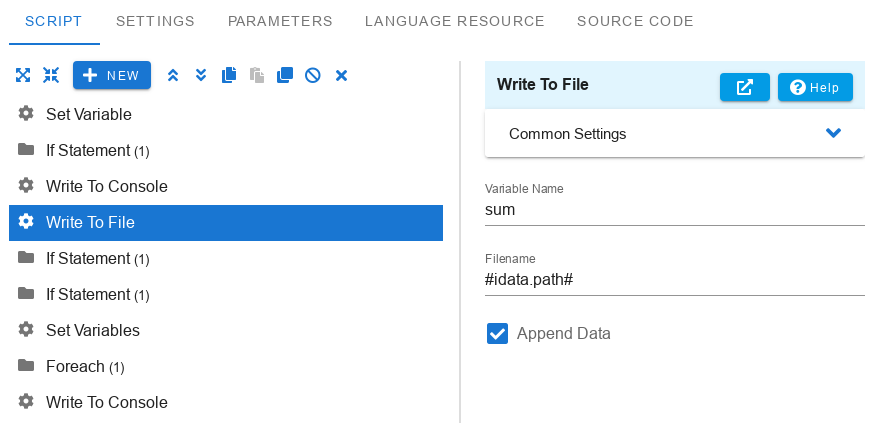
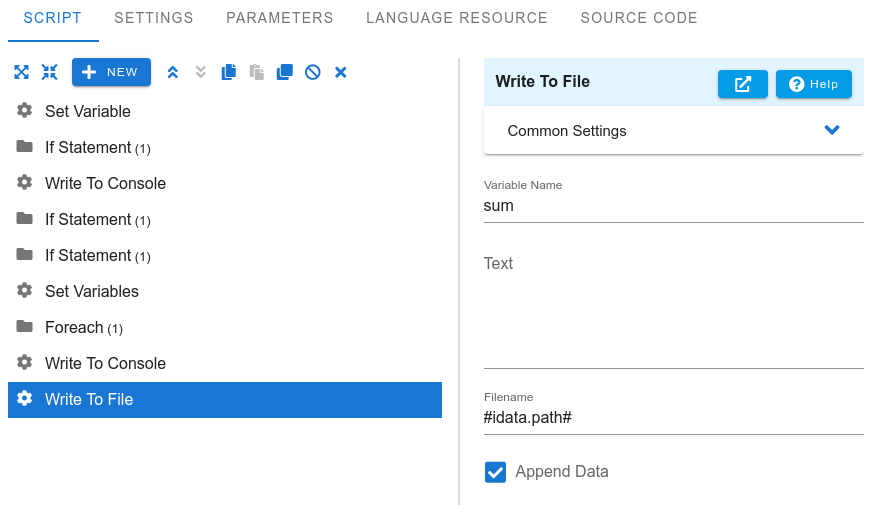
Add Text to Write To File command

diff --git a/ru/docs/config.md b/ru/docs/config.md
@@ -21,6 +21,7 @@ desc: Конфигурация программы Eonza.
 version: 1.1.0+1
 mode: default
 assetsdir: ""
+extsdir: ""
 log:
   dir: ""
   mode: file
@@ -47,6 +48,7 @@ whitelist: []
    * **develop** - режим разработчика.
    * **playground** - режим безопасной "песочницы".
 * **assetsdir** - по умолчанию, файлы для фронтенда (html, js, png) упакованы в исполняемый файл. Вы можете указать директорию к этим файлам в распакованном виде. Это позволяет использовать модифицированные версии файлов.
+* **extsdir** - директория для установки расширений. Каждое расширение устанавливается в отдельную поддиректорию.
 * **whitelist** - если вы установили Eonza на удаленном сервере (хостинге), то мы рекомендуем указать "белый список" ip-адресов в дополнении к защите по паролю. В этом параметре укажите массив подсетей, откуда возможно подключение к программе. Если запрос к Eonza придёт от ip-адреса, который не входит ни в одну из указанных сетей, то будет отправлена ошибка - *Доступ запрещен*. При определении "белого списка" обязательно добавьте в него следующие подсети: **::1/128, 127.0.0.0/31**.
 
 ``` yaml

diff --git a/ru/scripts/write-file.md b/ru/scripts/write-file.md
@@ -4,12 +4,15 @@ desc: Команда записывает значение переменной 
 ---
 # Записать в файл
 
-Команда **Записать в файл** записывает значение переменной в указанный файл.
+Команда **Записать в файл** записывает значение переменной и/или текст в указанный файл.
 
 %html.write-file%
 
 **Имя переменной**  
-Укажите имя переменной, значение которой нужно записать.
+Укажите имя переменной, значение которой нужно записать. Если имя переменной не указано, то будет записан текст, который указан в следующем поле.
+
+**Текст**  
+Вместо имени переменной вы можете указать текст, который нужно сохранить в файл. Если указано имя переменной, то текст будет добавлен после значения переменной.
 
 **Имя файла**  
 Укажите полный или относительный путь к файлу, в который нужно записать данные. Если файл не существует, то он будет создан.

diff --git a/en/docs/config.md b/en/docs/config.md
@@ -21,6 +21,7 @@ The main settings of the program are stored in the YAML configuration file *eonz
 version: 1.1.0+1
 mode: default
 assetsdir: ""
+extsdir: ""
 log:
   dir: ""
   mode: file
@@ -47,6 +48,7 @@ whitelist: []
    * **develop** - developer mode.
    * **playground** - safe "sandbox" mode.
 * **assetsdir** - by default, the frontend files (html, js, png) are packed into an executable file. You can specify the directory with the unpacked files. This allows you to use modified versions of the files.
+* **extsdir** - directory for installing extensions. Each extension is installed in a separate subdirectory.
 * **whitelist** - if you installed Eonza on a remote server (hosting), we recommend specifying a "whitelist" of ip addresses in addition to password protection. In this case, specify the array of subnets from which which it is possible to connect to the program. If a request to Eonza comes from an ip-address that is not included in any of the specified networks, an error will be sent - *Access denied*. When defining the "whitelist", be sure to add the following subnetworks to it: **::1/128, 127.0.0.0/31**.
 
 ``` yaml

diff --git a/en/scripts/write-file.md b/en/scripts/write-file.md
@@ -8,12 +8,15 @@ html:
 ---
 # Write To File
 
-The **Write To File** command writes the value of the variable to the specified file.
+The **Write To File** command writes the value of the variable and/or text to the specified file.
 
 %html.write-file%
 
 **Variable Name**  
-Specify the name of the variable whose value you want to write.
+Specify the name of the variable whose value you want to write. If no variable name is specified, the text that is specified in the following field will be written.
+
+**Text**  
+Instead of the variable name, you can specify the text that you want to save to the file. If a variable name is specified, the text will be added after the variable value.
 
 **Filename**  
 Specify the full or relative path to the file where you want to write data. If the file does not exist, then it will be created.

diff --git a/ru/docs/changelog-2021.md b/ru/docs/changelog-2021.md
@@ -8,6 +8,7 @@ desc: История изменений программы Eonza за 2021
 ## Версия разработчика -->
 ## Версия разработчика
 
+* Добавлен параметр *Текст* в команду [Записать в файл](/ru/scripts/write-file.html).
 * Добавлен чекбокс *Скрывать повторяющие задачи* (в Диспетчере задач) в общих настройках программы.
 * Добавлен параметр *Пароль sudo* в команду [Bash](/ru/scripts/bash.html).
 * Добавлено изменение статуса задачи (Прерван) при её внешнем завершении пользователем. Например, Ctrl-C в терминале.

diff --git a/en/docs/changelog-2021.md b/en/docs/changelog-2021.md
@@ -9,6 +9,7 @@ desc: Eonza Program Changelog for 2021
 
 ## Developer version
 
+* Added the *Text* parameter to the [Write To File](/scripts/write-file.html) command.
 * Added a checkbox *Hide duplicate tasks* (in the Task Manager) in the general settings of the program.
 * Added the *sudo Password* parameter to the [Bash](/scripts/bash.html) command.
 * Added a change in the task status (Terminated) when it is externally terminated by the user. For example, Ctrl-C in the terminal.

diff --git a/en/pro-version.md b/en/pro-version.md
@@ -35,7 +35,7 @@ If you use Eonza, you can become one of the first users of the Pro version for f
 
 License Term | Used/Reserved
 -------------|---------------
-**1 year** | **36/64**
+**1 year** | **38/64**
 
 ## Purchase Pro version
 
